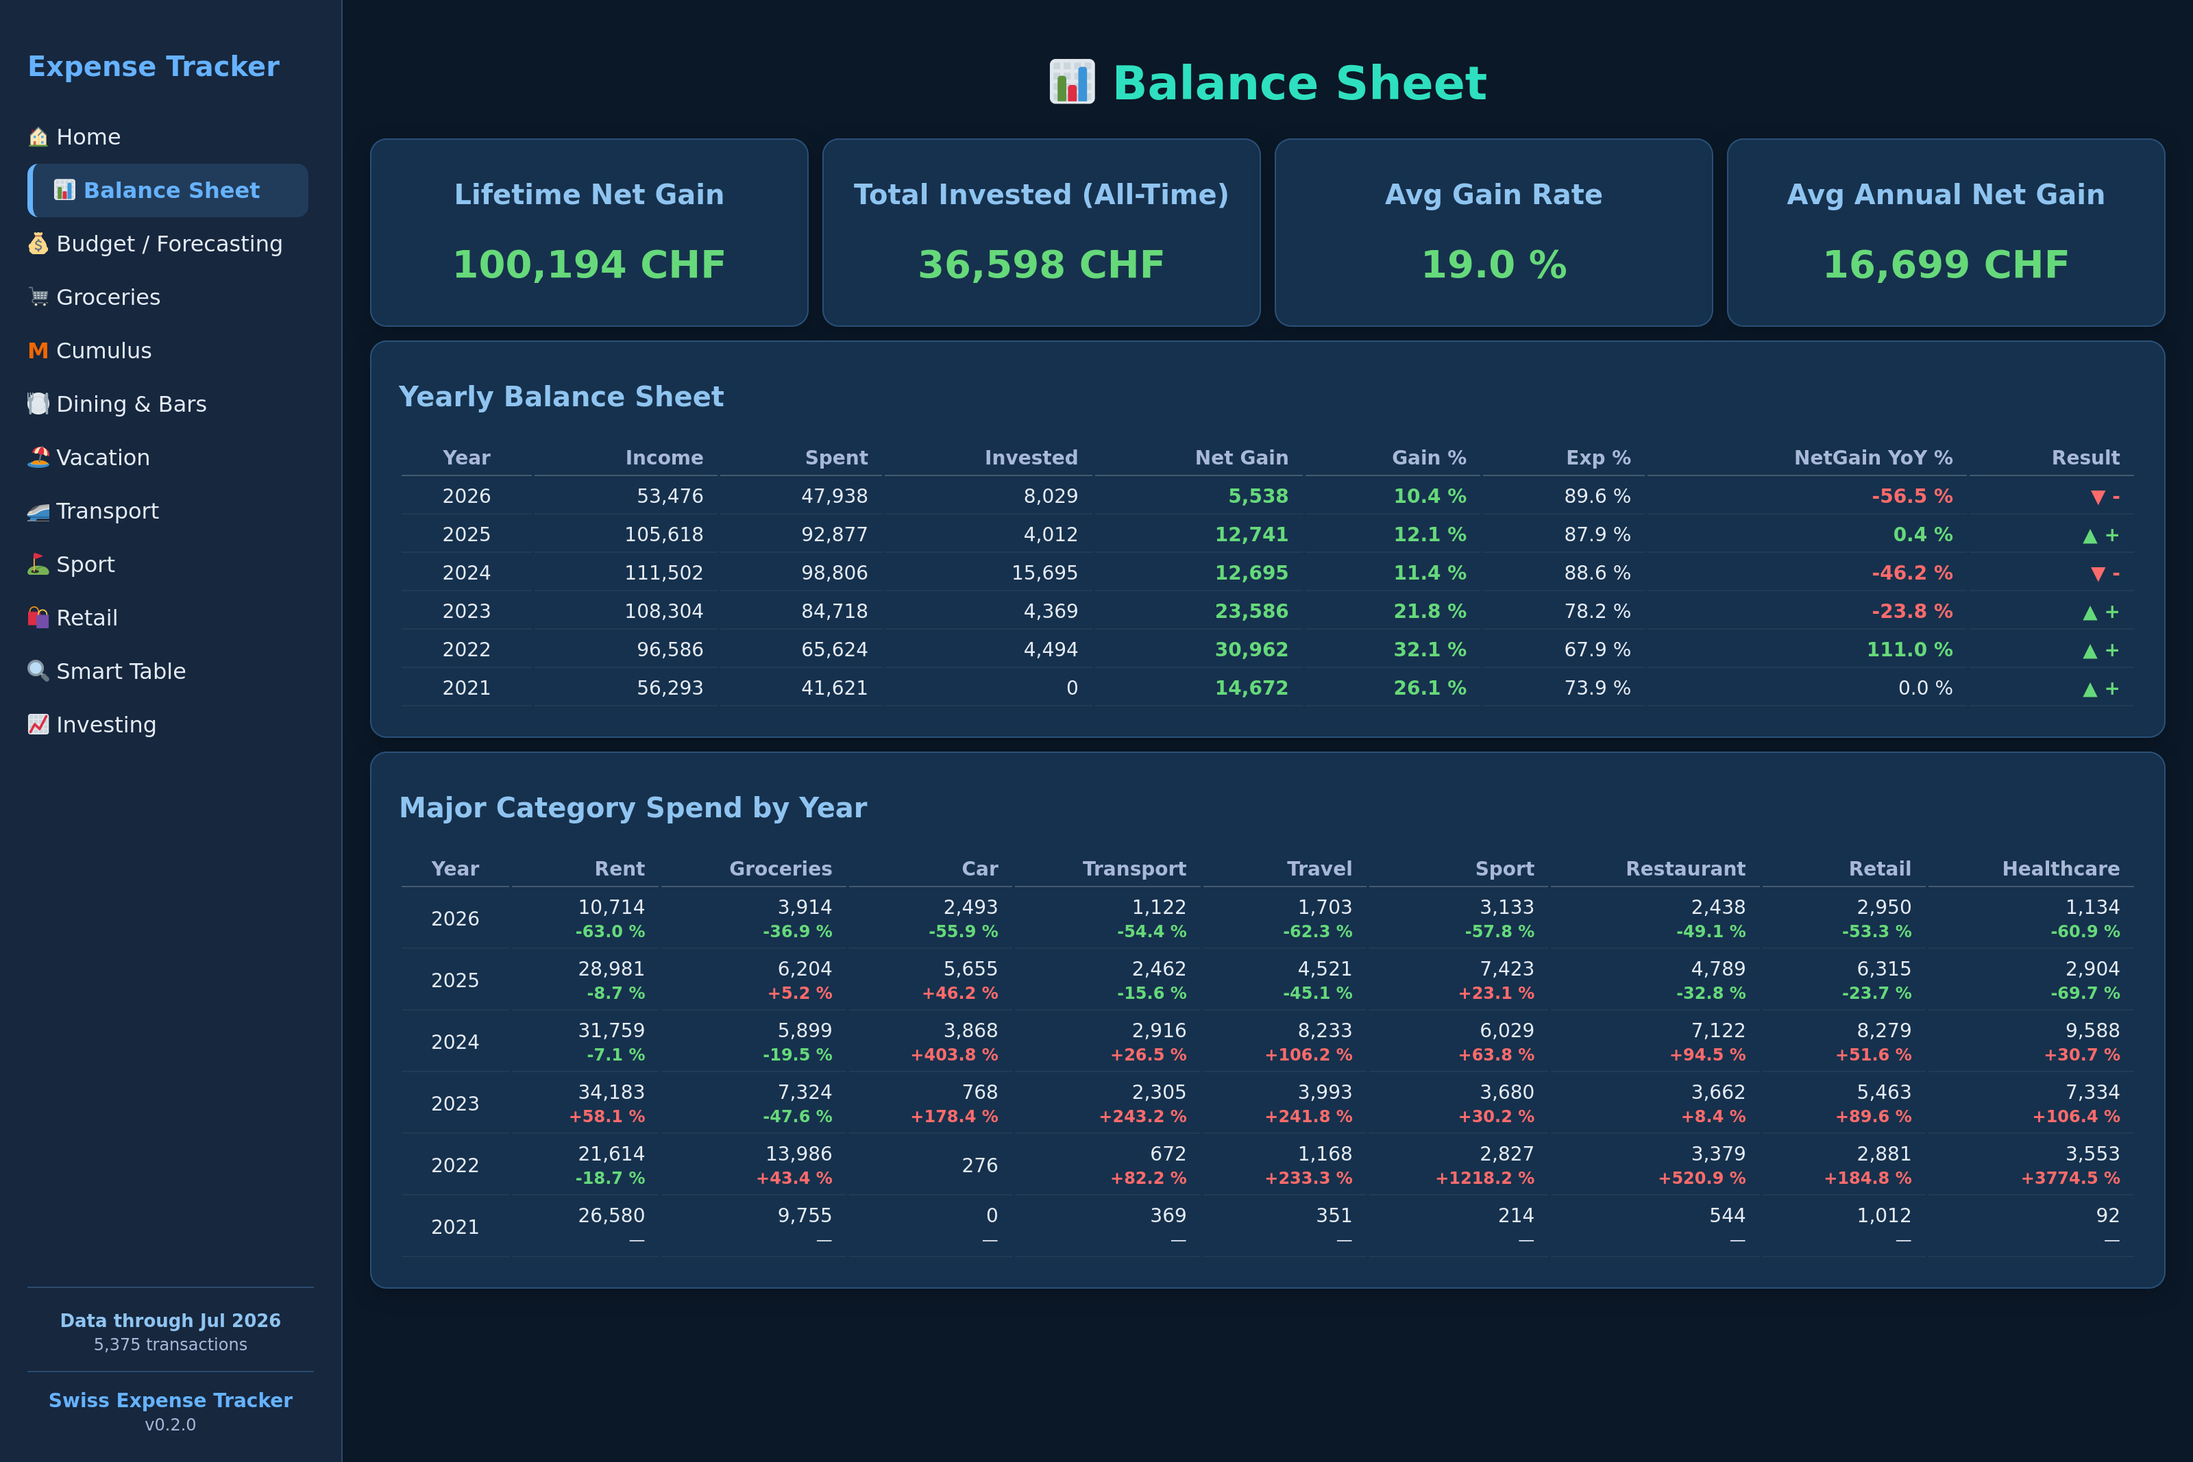
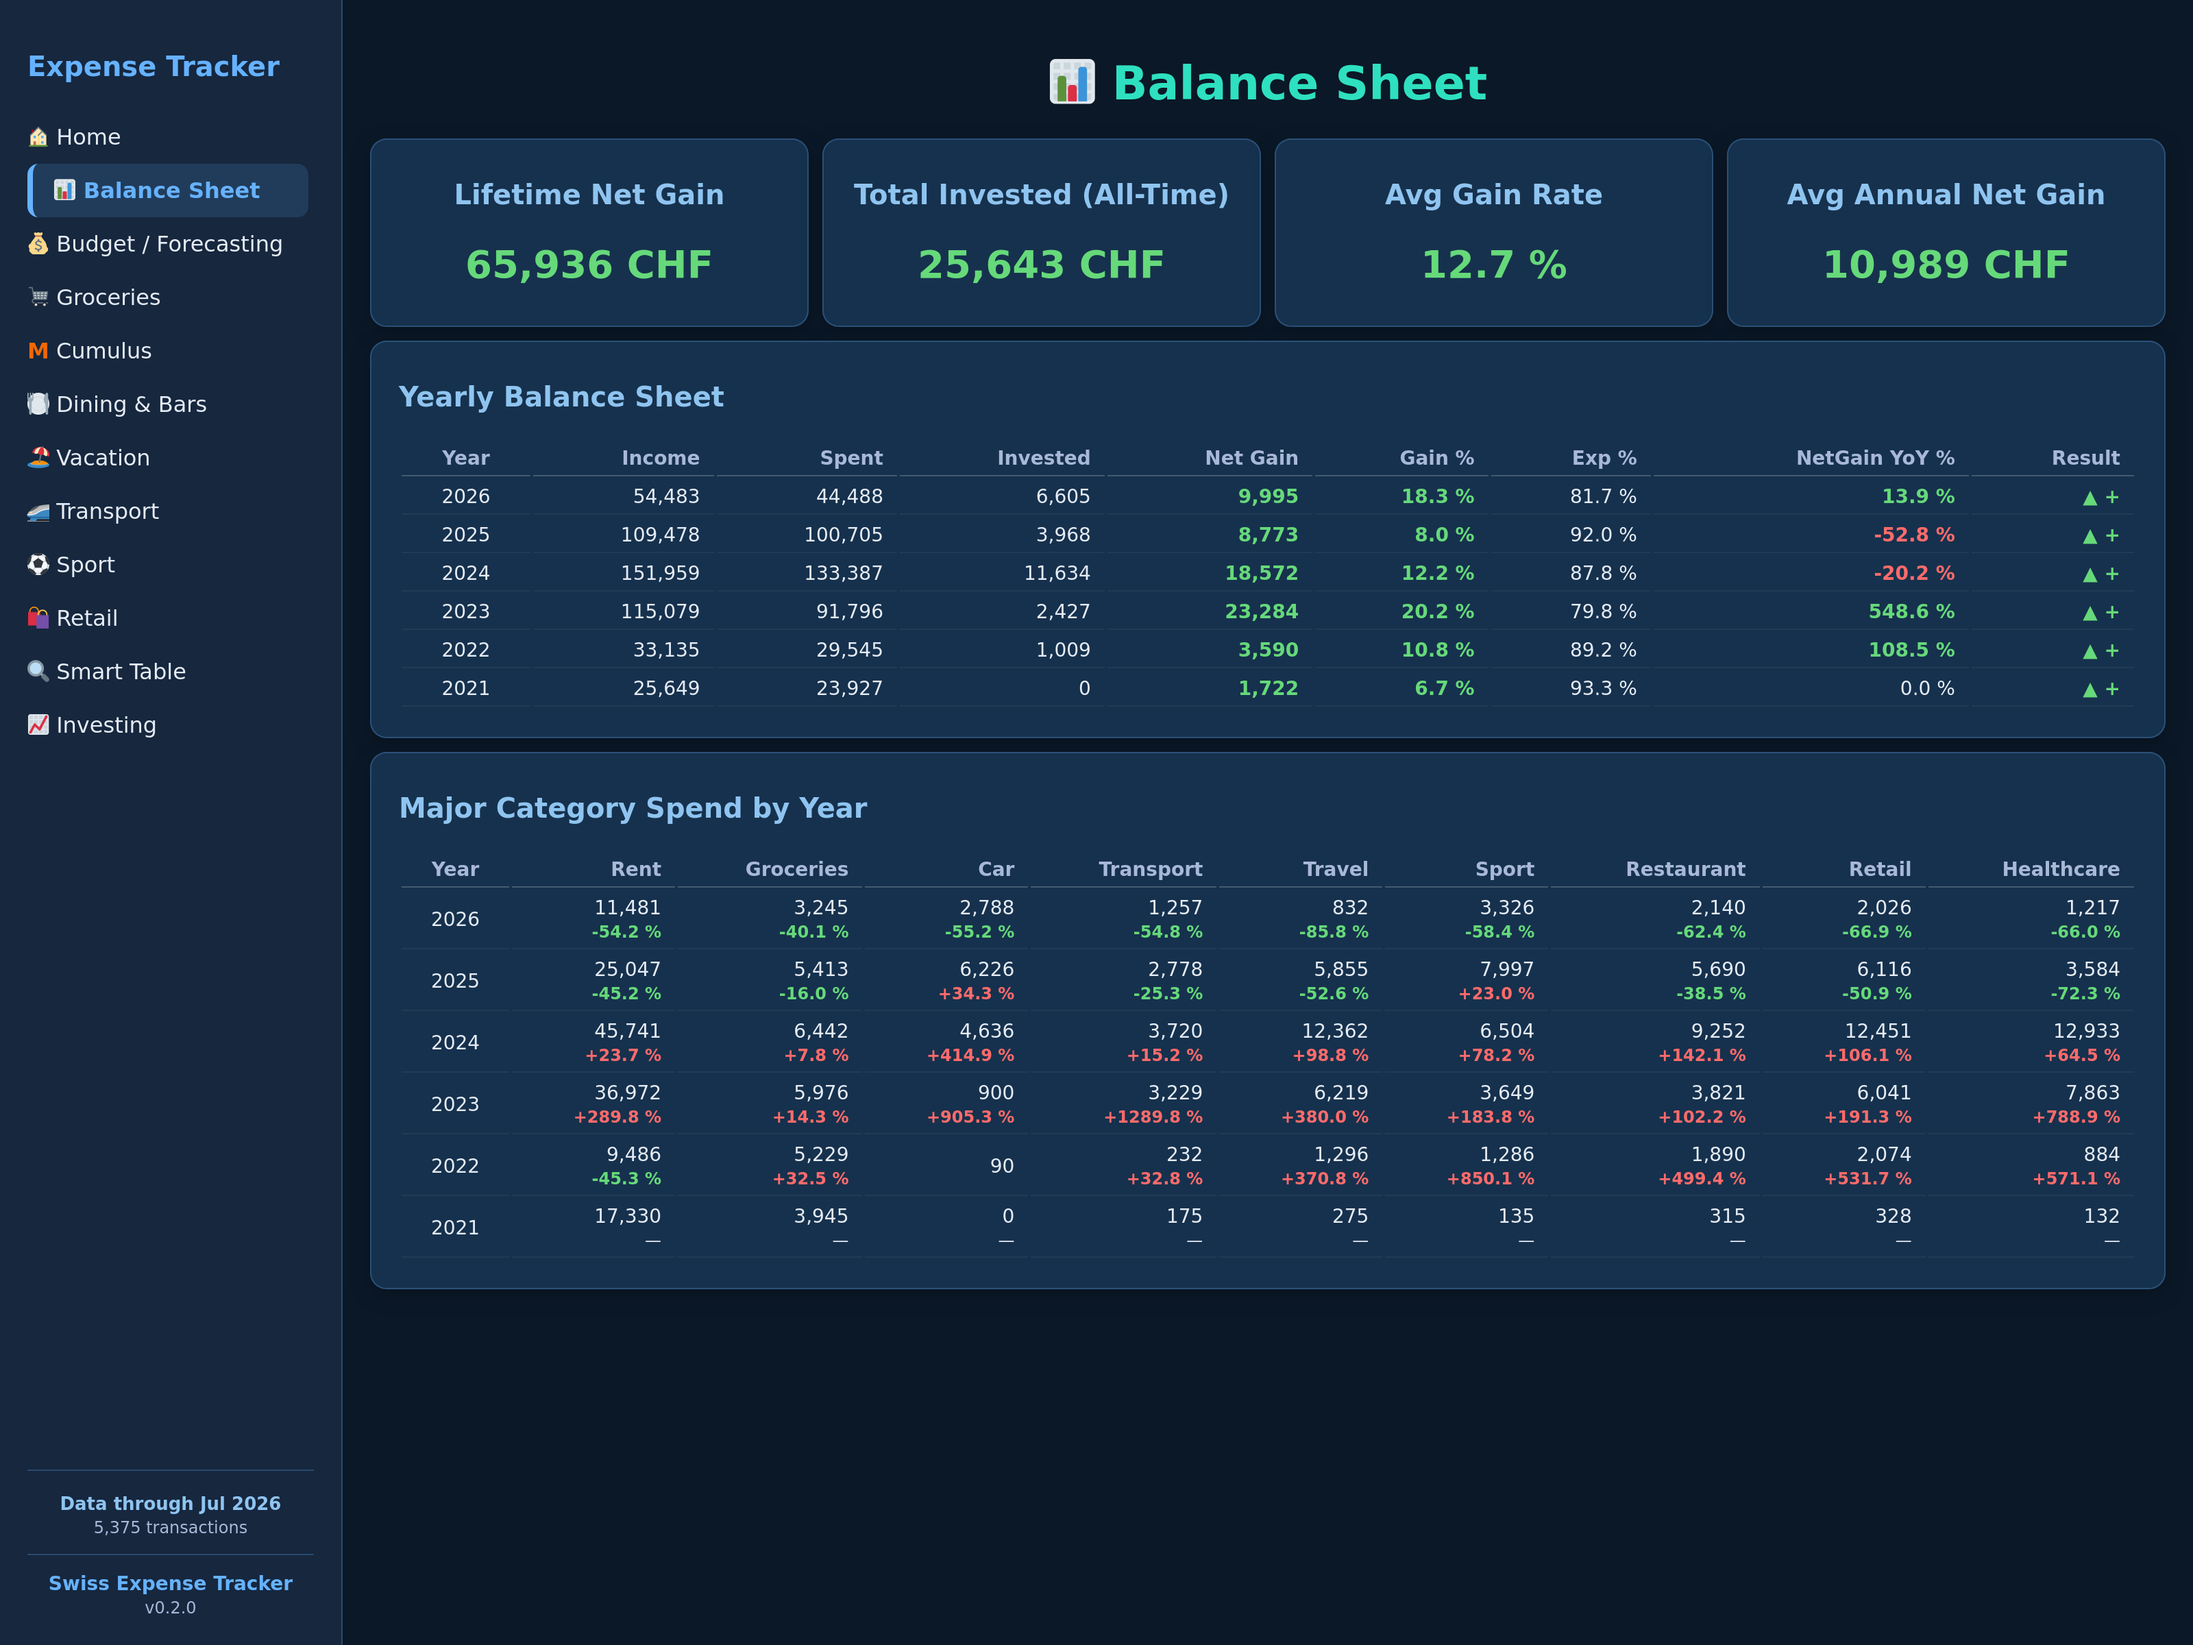
Add new screenshots and add repo files

diff --git a/src/swiss_exp_tracker/app/layout/app.py b/src/swiss_exp_tracker/app/layout/app.py
@@ -75,7 +75,7 @@ def create_app_layout(
                         className="menu-link",
                     ),
                     dcc.Link(
-                        "⛳ Sport",
+                        "⚽ Sport",
                         href="/sport",
                         id="link-sport",
                         className="menu-link",

diff --git a/src/swiss_exp_tracker/app/layout/sport.py b/src/swiss_exp_tracker/app/layout/sport.py
@@ -20,7 +20,7 @@ def layout(data: Any) -> Any:
     )
     return html.Div(
         [
-            make_page_title("⛳ Sport Analytics"),
+            make_page_title("⚽ Sport Analytics"),
             html.Div(
                 [
                     make_number_card(

diff --git a/CONTRIBUTING.md b/CONTRIBUTING.md
@@ -1,0 +1,107 @@
+# Contributing to Swiss Expense Tracker
+
+Thanks for your interest in contributing! This doc covers the local setup, the
+conventions CI enforces, and how to submit a change.
+
+## Getting set up
+
+See [README → 🚀 Getting Started](README.md#-getting-started) for the full
+install path, including the **[Dev Container](README.md#-develop-in-a-container)**
+option, which gives you the pinned Python 3.12, Poetry, and the whole dev
+toolchain (ruff, black, mypy, pytest) with no host setup beyond Docker.
+
+Quick path with Poetry directly:
+
+```bash
+git clone https://github.com/smueller-lab/SwissExpenseTracker.git
+cd SwissExpenseTracker
+pip install poetry && poetry install
+```
+
+## Before opening a PR
+
+CI (`.github/workflows/ci.yml`) runs lint, formatting, type checks, tests, and
+a Docker build on every PR to `main`. Run the same checks locally first:
+
+```bash
+poetry run ruff check src tests
+poetry run black --check src tests
+poetry run mypy --config-file pyproject.toml
+poetry run pytest --cov --cov-report=term-missing
+```
+
+Fix everything these report before pushing — a red CI run blocks review.
+
+## Code conventions
+
+Full detail lives in `.claude/rules/` and `CLAUDE.md`; the highlights:
+
+- **Docstrings**: every function/method gets a docstring naming what it does,
+  its inputs, and its output — max 3 lines, no padding.
+- **No unused parameters**: every declared parameter must be used in the
+  function body; prefix genuinely-unused framework-mandated args with `_`.
+- **Typing**: no `getattr`/`hasattr` fallback chains for "might be one of
+  several types" — type the parameter as a union and narrow with `isinstance`.
+- **Pydantic**: `BaseModel` everywhere (not dataclasses/`TypedDict`),
+  `model_validate()`/`model_dump()` (v2 API, never `.parse_obj()`/`.dict()`),
+  validators instead of `__init__` overrides, explicit `@field_validator` on
+  every date/nullable field.
+- **Layer boundaries**: Pydantic models for pipeline ingestion, `pd.DataFrame`
+  in the app layer, SQLite only behind `loader.py`/`loader_positions.py` — see
+  [`.claude/rules/data-models.md`](.claude/rules/data-models.md).
+- **Dash layout**: no inline `style={}`, cards use `components/cards.py`
+  helpers, grid rows must sum to `12` — see
+  [`.claude/rules/dash-layout.md`](.claude/rules/dash-layout.md).
+- **Plotly figures**: shared theme, axis, and sizing helpers are mandatory —
+  see [`.claude/rules/plots.md`](.claude/rules/plots.md).
+
+## Tests
+
+- Framework: `pytest` + `pytest-cov` + `pytest-asyncio` (`asyncio_mode = "auto"`,
+  no `@pytest.mark.asyncio` needed) + `pytest-mock` (`mocker` fixture, not
+  `unittest.mock` directly).
+- Test files mirror source paths under `tests/` (e.g.
+  `src/.../figure.py` → `tests/test_app_vis/test_figure.py`); name tests
+  `test_{what}_{condition}`.
+- Use a `_make_row(**overrides)` factory instead of hardcoding a single dict
+  per test.
+- Never touch `database/transactions.db` or `database/positions.db` — use the
+  `tmp_db`/`tmp_path` fixtures to redirect DB paths.
+- Use `pytest.approx` for float comparisons, never `==`.
+
+Full conventions: [`.claude/rules/testing.md`](.claude/rules/testing.md).
+
+## Adding a new bank/card source or dashboard page
+
+Two guided workflows exist for the most common contribution shapes:
+
+- New CSV/XLSX transaction source → `/new-data-source`
+- New dashboard page → `/new-page <page-name>`
+
+Both are Claude Code skills; if you're contributing by hand instead, read
+through the relevant `.dev-docs/` chapter first (see
+[README → 📚 Dev Docs](README.md#-dev-docs)) to find the files a new source or
+page needs to touch.
+
+## Commit / PR guidelines
+
+- Keep PRs focused on one change; avoid bundling unrelated refactors.
+- Write commit messages and PR descriptions around the *why*, not a restatement
+  of the diff.
+- Link the PR to an issue if one exists.
+- Make sure `poetry run pytest` and the lint/type checks above are green
+  before requesting review.
+
+## Reporting bugs / requesting features
+
+Open a GitHub issue with:
+
+- What you expected vs. what happened.
+- Steps to reproduce (sample input shape is fine — never attach real bank
+  data/exports).
+- Relevant log output or stack trace.
+
+## License
+
+By contributing, you agree that your contributions will be licensed under the
+project's [GNU General Public License v3.0](LICENSE).

diff --git a/CHANGELOG.md b/CHANGELOG.md
@@ -1,0 +1,48 @@
+# Changelog
+
+All notable changes to this project will be documented in this file.
+
+The format is based on [Keep a Changelog](https://keepachangelog.com/en/1.1.0/),
+and this project adheres to [Semantic Versioning](https://semver.org/spec/v2.0.0.html).
+
+## [Unreleased]
+
+### Added
+
+- GitHub issue templates (bug report, feature request) and a pull request template.
+- Codecov integration for coverage reporting.
+
+## [0.2.0] - 2026-07-06
+
+### Added
+
+- Budget and forecasting dashboard page with a basic forecasting model.
+- Docker support for the app, including a dev container.
+- End-to-end test pipeline coverage.
+
+### Changed
+
+- Refreshed README screenshots and dev setup instructions.
+
+## [0.1.1] - 2026-06-20
+
+### Fixed
+
+- Missing user configuration causing startup failures.
+- CI test run failures.
+
+## [0.1.0] - 2026-06-19
+
+### Added
+
+- Initial dashboard with core pages (home, food, vacation).
+- Agentic ingestion pipeline with post-pipeline cleaning.
+- Migros Cumulus and Swissquote positions pipelines.
+- Balance sheet and balance progression views.
+- CI deployment workflow.
+- Redesigned color contrast for accessibility.
+
+[Unreleased]: https://github.com/smueller-lab/SwissExpenseTracker/compare/v0.2.0...HEAD
+[0.2.0]: https://github.com/smueller-lab/SwissExpenseTracker/compare/v0.1.1...v0.2.0
+[0.1.1]: https://github.com/smueller-lab/SwissExpenseTracker/compare/v0.1.0...v0.1.1
+[0.1.0]: https://github.com/smueller-lab/SwissExpenseTracker/releases/tag/v0.1.0

diff --git a/.github/PULL_REQUEST_TEMPLATE.md b/.github/PULL_REQUEST_TEMPLATE.md
@@ -1,0 +1,31 @@
+## Description
+
+Please include a summary of the changes and the related issue. Please also include relevant motivation and context.
+
+Fixes # (issue)
+
+## Type of change
+
+- [ ] Bug fix (non-breaking change which fixes an issue)
+- [ ] New feature (non-breaking change which adds functionality)
+- [ ] Breaking change (fix or feature that would cause existing functionality to not work as expected)
+- [ ] Documentation update
+
+## How Has This Been Tested?
+
+Please describe the tests that you ran to verify your changes.
+
+- [ ] `poetry run pytest`
+- [ ] `poetry run python -m ruff check`
+- [ ] `poetry run python -m black --check`
+- [ ] `poetry run mypy --config-file pyproject.toml src`
+
+## Checklist
+
+- [ ] My code follows the style guidelines of this project
+- [ ] I have performed a self-review of my own code
+- [ ] I have commented my code where necessary
+- [ ] I have made corresponding changes to the documentation
+- [ ] My changes generate no new warnings
+- [ ] I have added tests that prove my fix is effective or that my feature works
+- [ ] New and existing unit tests pass locally with my changes

diff --git a/.github/ISSUE_TEMPLATE/bug_report.md b/.github/ISSUE_TEMPLATE/bug_report.md
@@ -1,0 +1,32 @@
+---
+name: Bug report
+about: Create a report to help us improve
+title: "[Bug]: "
+labels: bug
+assignees: ''
+
+---
+
+**Describe the bug**
+A clear and concise description of what the bug is.
+
+**To Reproduce**
+Steps to reproduce the behavior:
+1. Go to '...'
+2. Click on '...'
+3. Scroll down to '...'
+4. See error
+
+**Expected behavior**
+A clear and concise description of what you expected to happen.
+
+**Screenshots**
+If applicable, add screenshots to help explain your problem.
+
+**Environment (please complete the following information):**
+- OS: [e.g. Ubuntu 22.04]
+- Python version: [e.g. 3.11]
+- Browser (if dashboard-related): [e.g. Chrome, Safari]
+
+**Additional context**
+Add any other context about the problem here.

diff --git a/.github/ISSUE_TEMPLATE/feature_request.md b/.github/ISSUE_TEMPLATE/feature_request.md
@@ -1,0 +1,20 @@
+---
+name: Feature request
+about: Suggest an idea for this project
+title: "[Feature]: "
+labels: enhancement
+assignees: ''
+
+---
+
+**Is your feature request related to a problem? Please describe.**
+A clear and concise description of what the problem is. Ex. I'm always frustrated when [...]
+
+**Describe the solution you'd like**
+A clear and concise description of what you want to happen.
+
+**Describe alternatives you've considered**
+A clear and concise description of any alternative solutions or features you've considered.
+
+**Additional context**
+Add any other context or screenshots about the feature request here.
